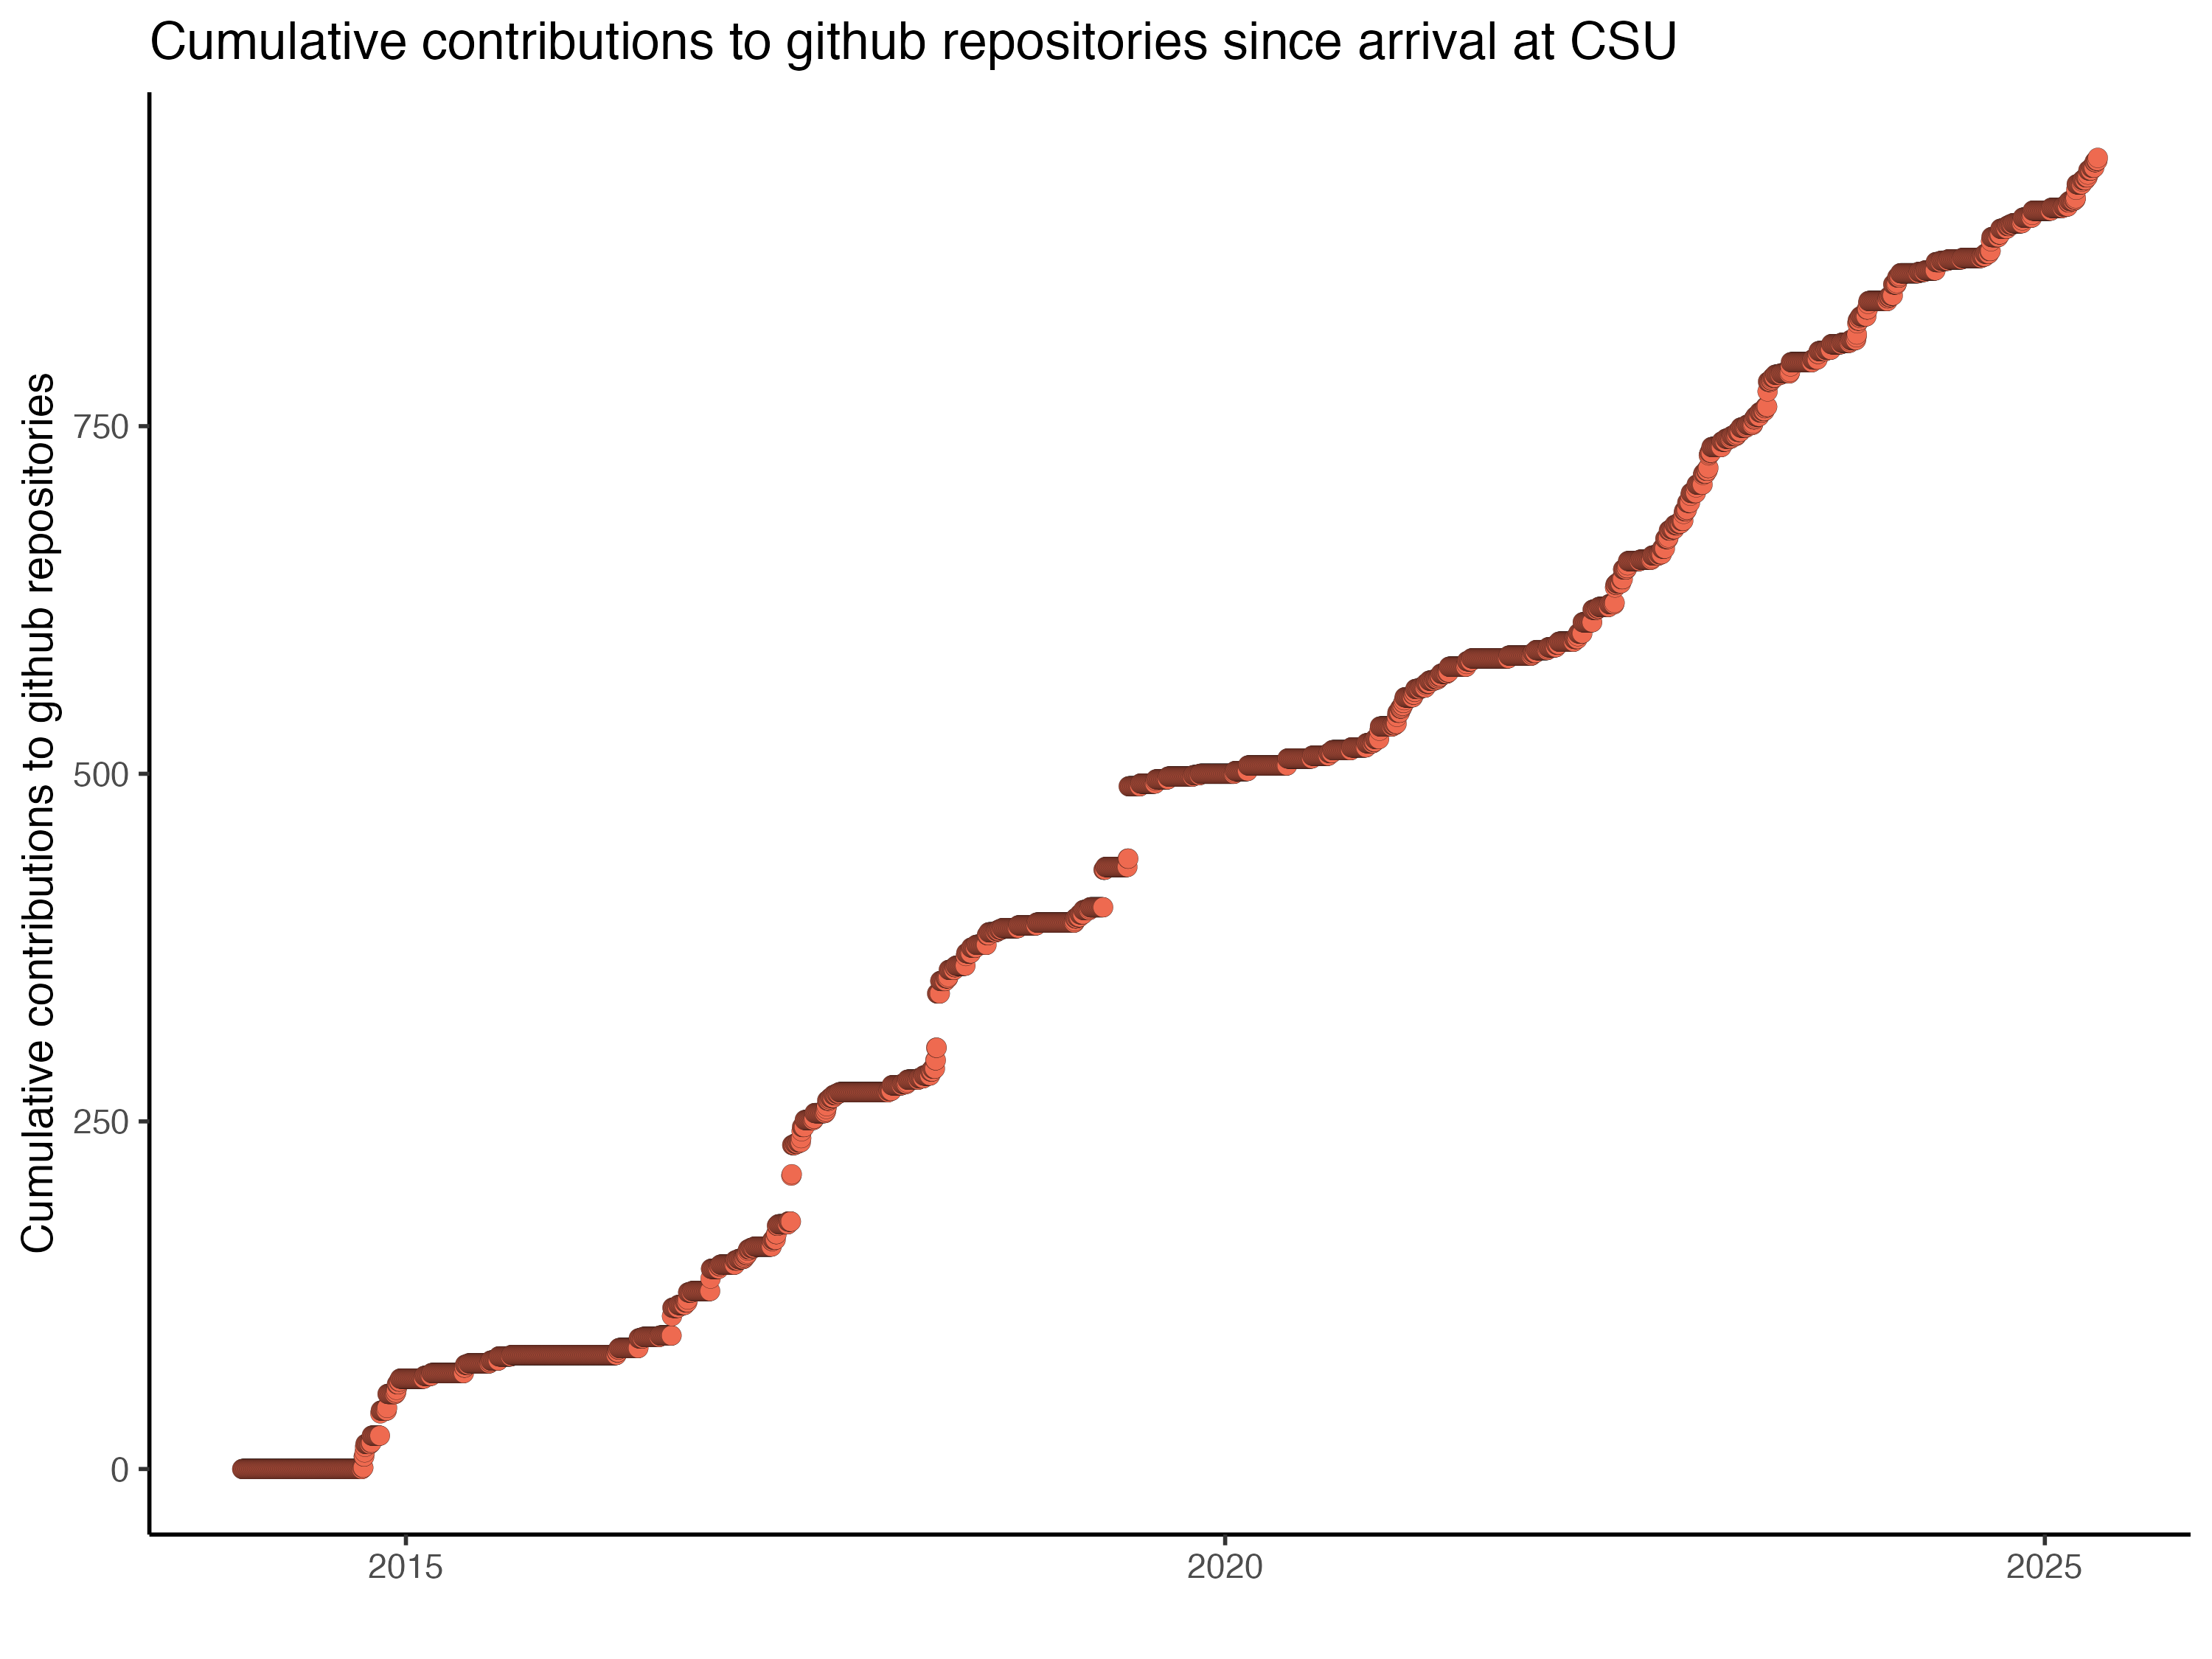
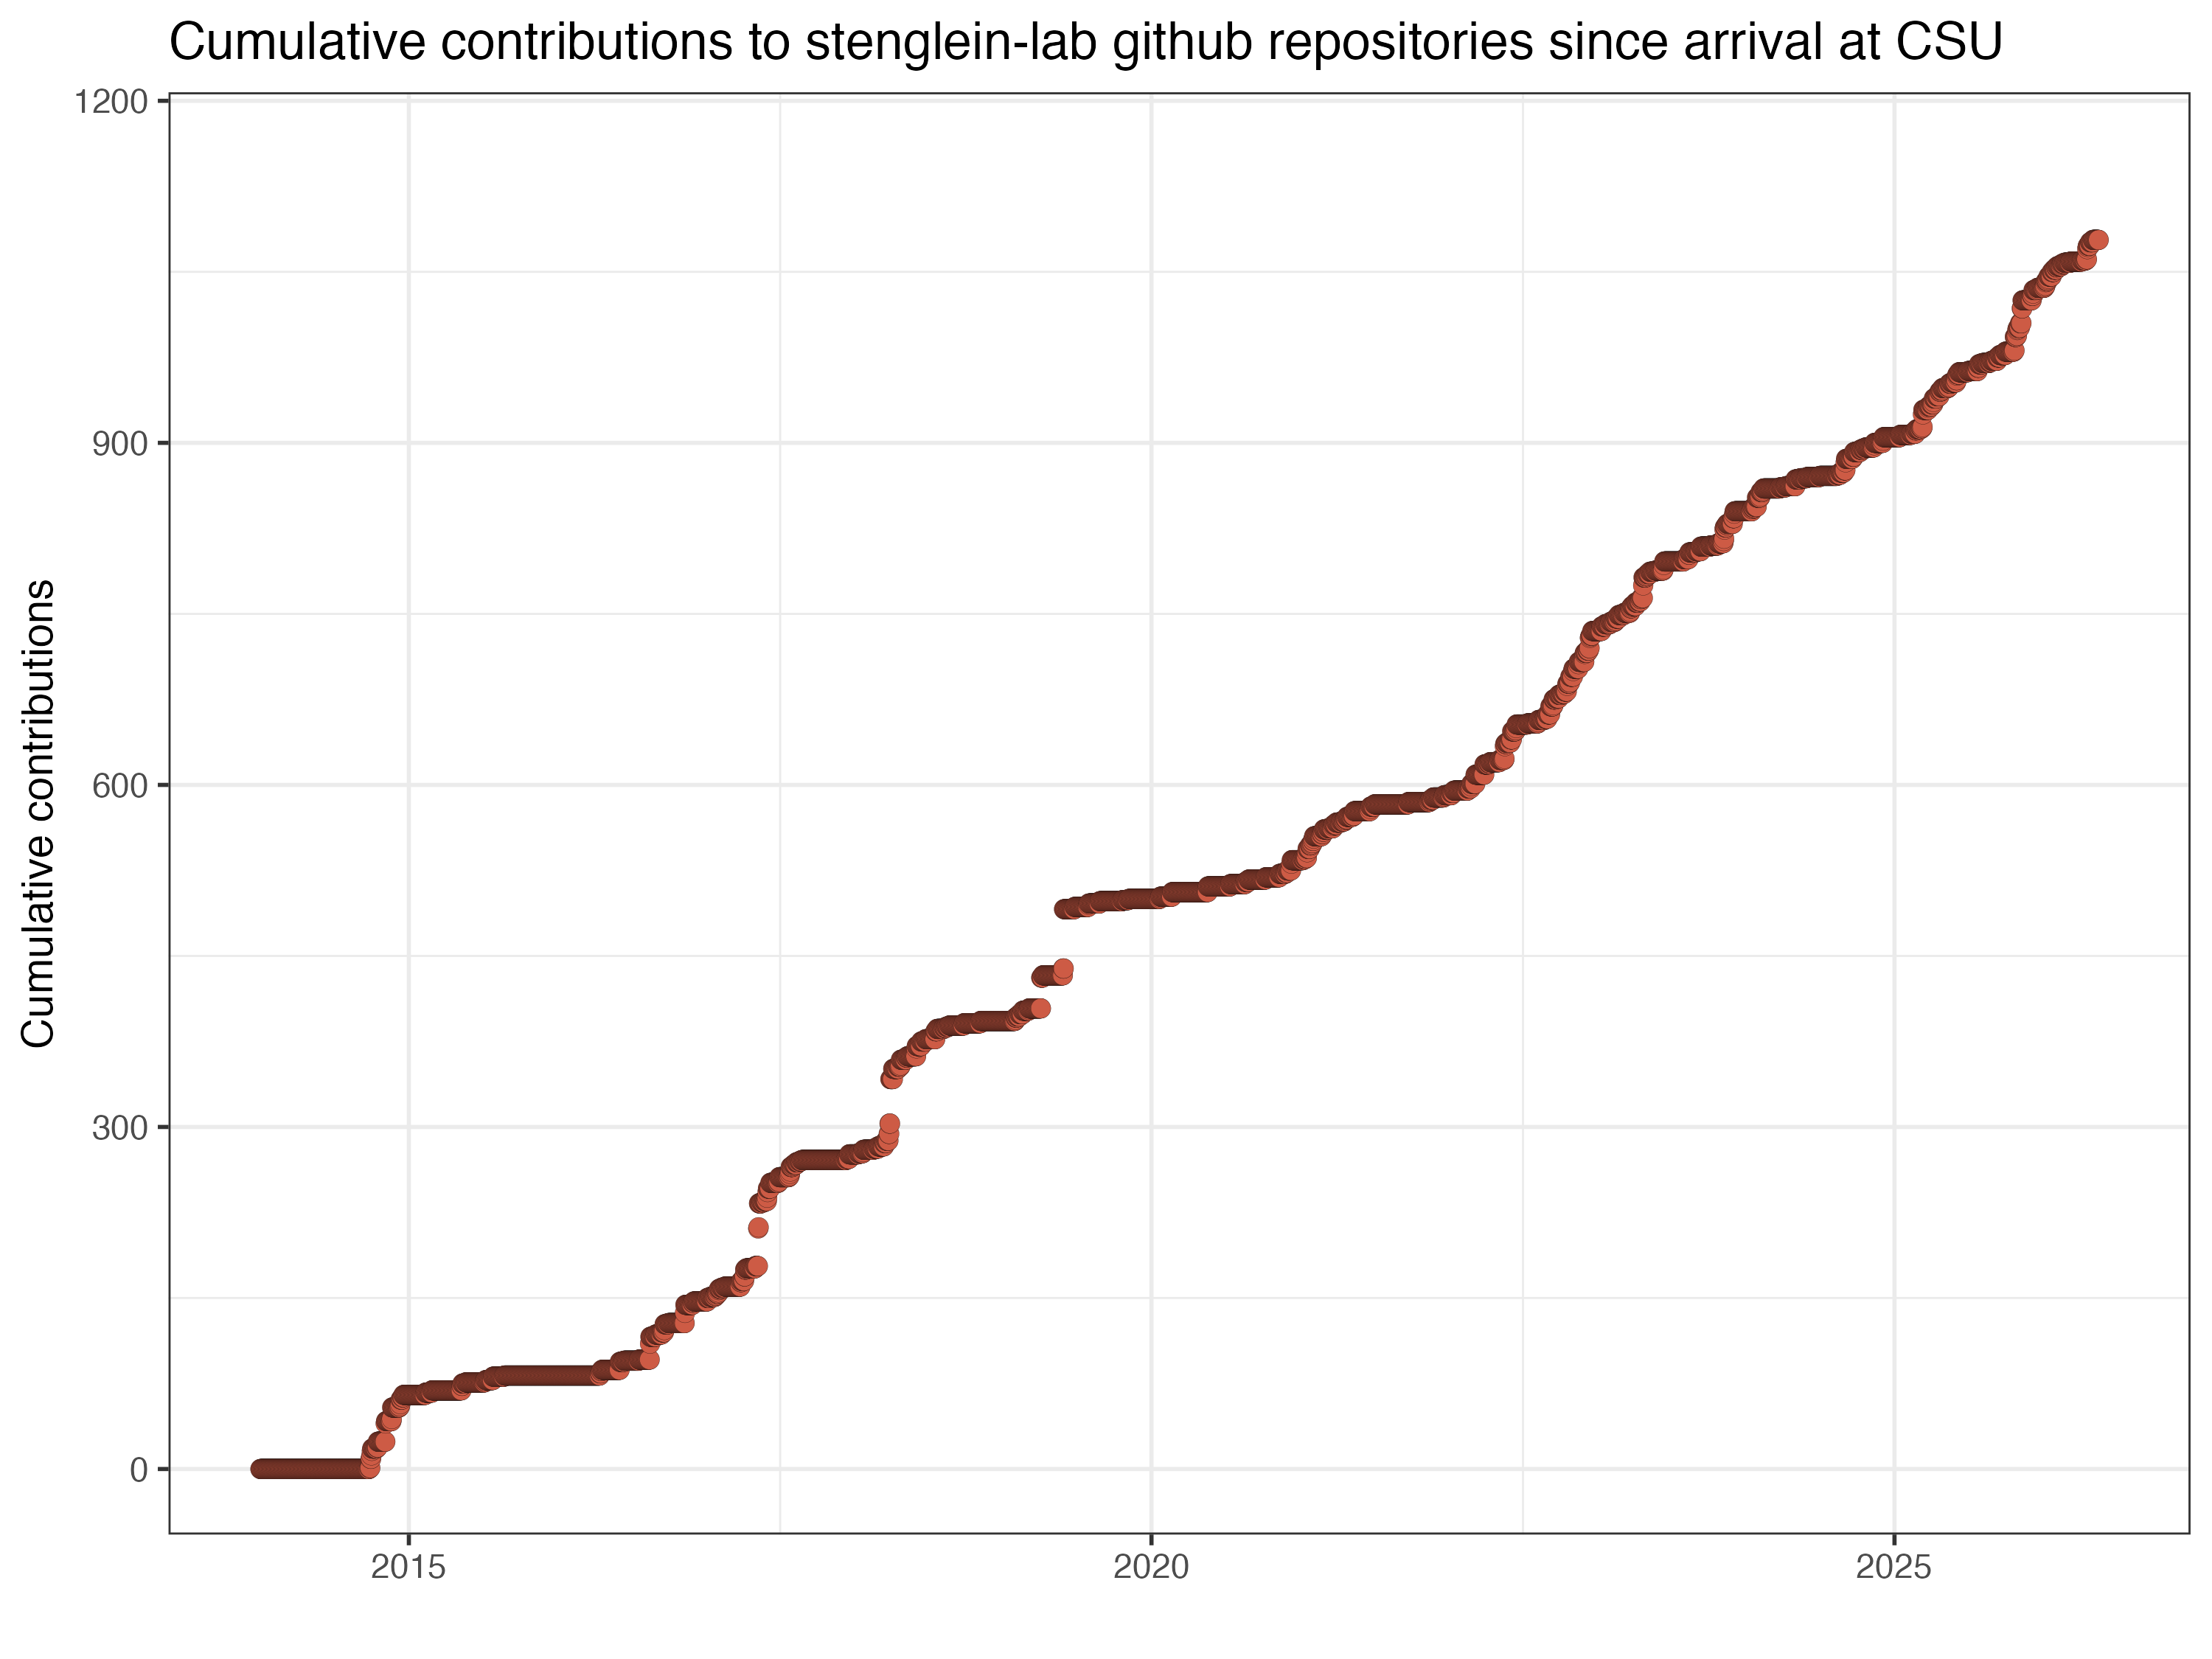
update to current data and switch away from GitHub GraphQL API Explorer to use of direct curl queries

diff --git a/plotting_github_contributions/README.md b/plotting_github_contributions/README.md
@@ -1,67 +1,81 @@
 # How to collect and plot github contributions data
 
 Mark Stenglein
-4/30/2025
+updated: 5/19/2026
 
 ## Motivation
 
-Part of being an academic scientist is documenting your activities.  I like to collect and plot quantitative data that reflects my contributions to science.  I do a lot of computational work, so one measure of my productivity is "contributions" to github repositories.  Contributions include things like code commits, opening an issue, etc.  [See here for more info](https://docs.github.com/en/account-and-profile/setting-up-and-managing-your-github-profile/managing-contribution-settings-on-your-profile/viewing-contributions-on-your-profile#what-counts-as-a-contribution).
+Part of being an academic scientist is documenting your activities ad nauseam.  I like to collect and plot quantitative data that reflects my contributions to science.  I do a lot of computational work, so one measure is "contributions" to github repositories.  Contributions include things like code commits, opening an issue, etc.  [See here for more info](https://docs.github.com/en/account-and-profile/setting-up-and-managing-your-github-profile/managing-contribution-settings-on-your-profile/viewing-contributions-on-your-profile#what-counts-as-a-contribution).
 
 This snippet documents how I collected and plotted my total contributions to github repositories since I started as a faculty at CSU in the fall of 2014.
 
 ## Collecting contribution data
 
-I used the [GitHub GraphQL API](https://docs.github.com/en/graphql) to access and download this data. This is how I collected my contribution data for each year since 2014.. 
+The [fetch_github_contribution_info.sh script](./fetch_github_contribution_info.sh) retrieves github contribution data.  You need to specify your github username and a [personal access token](https://docs.github.com/en/authentication/keeping-your-account-and-data-secure/managing-your-personal-access-tokens). This script uses the [GitHub GraphQL API](https://docs.github.com/en/graphql) to retrieve information.  
 
-1. Navigate to the [GraphQL API Explorer](https://docs.github.com/en/graphql/overview/explorer):
-https://docs.github.com/en/graphql/overview/explorer
-2. Click the "Sign in with Github" link to sign in using your github credentials.
-3. In the query box, enter in a query like the one shown below, which will get your contribution data for 2023.  Note the data range.  You are only allowed to have the date range span one year, so you will have to repeatedly enter the query to get 1-year's worth of data at a time.  Save the resulting data in a .json file.  In this example, I am collecting contribution data from 2023 and I will save it in a file named 2023.json.
+To get more information for running this script, run:
 
 ```
-query($userName:String!) {
-  user(login: $userName){
-    contributionsCollection (
-      from:"2023-01-01T00:00:00.000Z",
-      to:  "2023-12-31T23:59:59.000Z") {
-      contributionCalendar {
-        totalContributions
-        weeks { contributionDays {
-            contributionCount
-            date
-          }
-        }
-      }
-    }
-  }
-}
+./fetch_github_contribution_info.sh -h
 ```
 
-You will also need to enter in the Variables section of the interface something like:
+Which will output this usage information:
 
 ```
-{ "userName": "stenglein-lab"}
+Usage: fetch_github_contribution_info.sh [OPTIONS]
+
+Query the GitHub GraphQL API for contribution calendar data.
+Outputs one raw JSON blob per year to stdout.
+
+Options:
+  -u, --username USERNAME   GitHub username to query (required)
+
+  -t, --token TOKEN         GitHub personal access token (required)
+
+  -y, --year YEAR           Year to retrieve (can be specified multiple times,
+                            e.g. -y 2022 -y 2023); defaults to the current year
+
+  -h, --help                Show this help message and exit
+
+Examples:
+  # Single year using made-up access token
+  fetch_github_contribution_info.sh -u stenglein-lab -t ghp_abc123 -y 2023
+
+  # Multiple years
+  fetch_github_contribution_info.sh -u stenglein-lab -t ghp_abc123 -y 2022 -y 2023 -y 2024
+
+  # Pipe output to your own JSON tool
+  fetch_github_contribution_info.sh -u stenglein-lab -t ghp_abc123 -y 2023 | my_json_tool
+
+Notes:
+  - The GitHub API limits contributionsCollection to a maximum span of one year,
+    so this script issues one request per year.
+  - Generate a personal access token at:
+    https://github.com/settings/tokens
+    Required scopes: read:user (and repo for private repository data)
+  - Beware non-secure use of token as command-line argument
 ```
 
-Replacing stenglein-lab with your github username.
+This script will output one .json file for each year's worth of data, with names like `2019.json` or `2026.json`.  The reason it works like this is because GitHub restricts retrieval to a year's worth per request. It was simpler to keep each year's data in a separate file than to merge them (this could be added as a future enhancement).
 
-At the end of this you should have one .json file for each year's worth of data, with names like `2014.json` or `2019.json`.
+This script depends on the `curl` utility.
 
 ## Plot data
 
-I used R to wrangle and plot this data.  The data is in separate .json files so I used the tidyjson package to convert the .json contribution data into a concatendated tidy dataframe, which I then plotted.  You will need the tidyverse and tidyjson packages installed.
+I used R to wrangle and plot this downloaded contribution data.  The data is in separate .json files so I used the tidyjson package to convert the .json contribution data into a concatendated tidy dataframe, which I then plotted.  You will need the tidyverse and tidyjson packages installed.
 
-The R code I used is:
+The R code I used is in [this script](./plot_github_contributions.R)), shown here:
+
 ```{r}
 library(tidyverse)
 library(tidyjson)
 
 # process and plot github contribution data
-# Mark Stenglein 4/30/2025
+# Mark Stenglein 5/19/2026
 
 # this function process one year's worth of github contribution data.
 # It assumes there is a file named <year>.json
-# that contains data exported from the github GraphQL API as described above
+# that contains data downloaded via the github GraphQL API as described above
 process_one_year <- function(year) {
   
   filename = paste0(year, ".json")
@@ -90,9 +104,8 @@ process_one_year <- function(year) {
 
 }
 
-
 # process all the years
-years <- seq(2014, 2025)
+years <- seq(2014, 2026)
 
 # this line of code does 2 things: it calls the above function on the vector of years using lapply
 # lapply returns a list of tibbles, which we want to concatenate into a single tibble
@@ -108,14 +121,15 @@ all_year_data$date <- as_date(all_year_data$date)
 # plot cumulative contributions
 ggplot (filter(all_year_data, date < today())) +
   geom_point(aes(x=date, y=cumulative_contributions), 
-             shape=21, size=3, fill="coral2", color="black", stroke=0.05) +
-  theme_classic(base_size = 14) +
+             shape=21, size=3, fill="coral3", color="black", stroke=0.05) +
+  theme_bw(base_size = 14) +
   xlab("") +
-  ylab("Cumulative contributions to github repositories") +
-  ggtitle("Cumulative contributions to github repositories since arrival at CSU")
+  ylab("Cumulative contributions") +
+  ggtitle("Cumulative contributions to stenglein-lab github repositories since arrival at CSU")
 
 # save as a PDF
 ggsave("cumulative_github_contributions.pdf", units="in", width=10, height=7.5)
+# save as PNG
 ggsave("cumulative_github_contributions.png", units="in", width=10, height=7.5)
 ```
 
@@ -123,4 +137,4 @@ This produces this plot:
 
 ![Plot of my cumulative github contributions over 10 years](./cumulative_github_contributions.png)
 
-I've made nearly 1000 github contributions over the last 10 years, which I feel pretty good about since this captures just one aspect of my job.  There have been several bursts of activity: individual days with many contributions but overall the rate has been pretty consistent. 
+I've made nearly 1100 github contributions over the last 11 years, which I feel pretty good about since this captures just one aspect of my job.  There have been several bursts of activity: individual days with many contributions but overall the rate has been pretty consistent. 